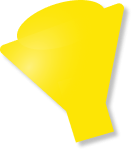
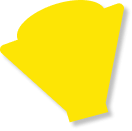
apply brightness filter to highlight css class

Changed region(s): [[0.0, 0.0, 0.9394, 0.9771], [0.6667, 0.0, 0.7576, 0.0305]]

diff --git a/index.html b/index.html
@@ -24,27 +24,33 @@
 					<img
 						data-id="0"
 						id="green"
-						class=""
+						class="piece"
 						src="css/green.png"
 						alt="green"
 					/>
 					<img
 						data-id="1"
 						id="yellow"
-						class=""
+						class="piece"
 						src="css/yellow.png"
 						alt="yellow"
 					/>
 					<img class="holder" src="css/holder.png" alt="holder" />
-					<img data-id="2" id="red" class="" src="css/red.png" alt="red" />
+					<img data-id="2" id="red" class="piece" src="css/red.png" alt="red" />
 					<img
 						data-id="4"
 						id="purple"
-						class=""
+						class="piece"
 						src="css/purple.png"
 						alt="purple"
 					/>
-					<img data-id="3" id="blue" class="" src="css/blue.png" alt="blue" />
+					<img
+						data-id="3"
+						id="blue"
+						class="piece"
+						src="css/blue.png"
+						alt="blue"
+					/>
 				</div>
 			</figure>
 		</main>

diff --git a/app.js b/app.js
@@ -10,6 +10,7 @@ window.document.addEventListener('keypress', () => {
 		simonMoves();
 	}
 });
+
 const simonMoves = () => {
 	return game();
 };
@@ -32,7 +33,8 @@ wrapper.addEventListener('click', (event) => {
 /********************** PSEUDOCODE STEPS**********************/
 //create a random sequence
 const randomNumber = () => {
-	return Math.floor(Math.random() * 5);
+	let num = Math.floor(Math.random() * 5);
+	gameSequence.push(num);
 };
 
 let gameSequence = [];

diff --git a/css/style.css b/css/style.css
@@ -7,6 +7,12 @@ body {
 	font-size: 62px;
 	letter-spacing: -0.03em;
 	line-height: 92px;
+	background: rgb(238, 174, 202);
+	background: linear-gradient(
+		90deg,
+		rgba(238, 174, 202, 1) 0%,
+		rgba(148, 187, 233, 1) 100%
+	);
 }
 
 h1 {
@@ -69,5 +75,5 @@ figure {
 }
 
 .highlight {
-	filter: drop-shadow(0px 20px 24px magenta);
+	filter: drop-shadow(0px 20px 24px blue) brightness(1.5);
 }

diff --git a/README.md b/README.md
@@ -32,4 +32,4 @@ Project 1 for General Assembly's remote Software Engineering Immersive program
 
 ### References:
 
-> https://www.w3schools.com/jsref/met_element_getattribute.asp > https://www.w3schools.com/jsref/met_win_settimeout.asp > https://www.youtube.com/watch?v=br-0i3U1VCA > https://www.youtube.com/watch?v=EashgVqboWo&feature=emb_title > https://www.youtube.com/watch?v=0Gr1XSyxZy0 > https://www.udemy.com/course/the-complete-web-development-bootcamp/
+> https://www.w3schools.com/jsref/met_element_getattribute.asp > https://www.w3schools.com/jsref/met_win_settimeout.asp > https://www.youtube.com/watch?v=br-0i3U1VCA > https://www.youtube.com/watch?v=EashgVqboWo&feature=emb_title > https://www.youtube.com/watch?v=0Gr1XSyxZy0 > https://www.udemy.com/course/the-complete-web-development-bootcamp/ > https://css-tricks.com/almanac/properties/f/filter/
